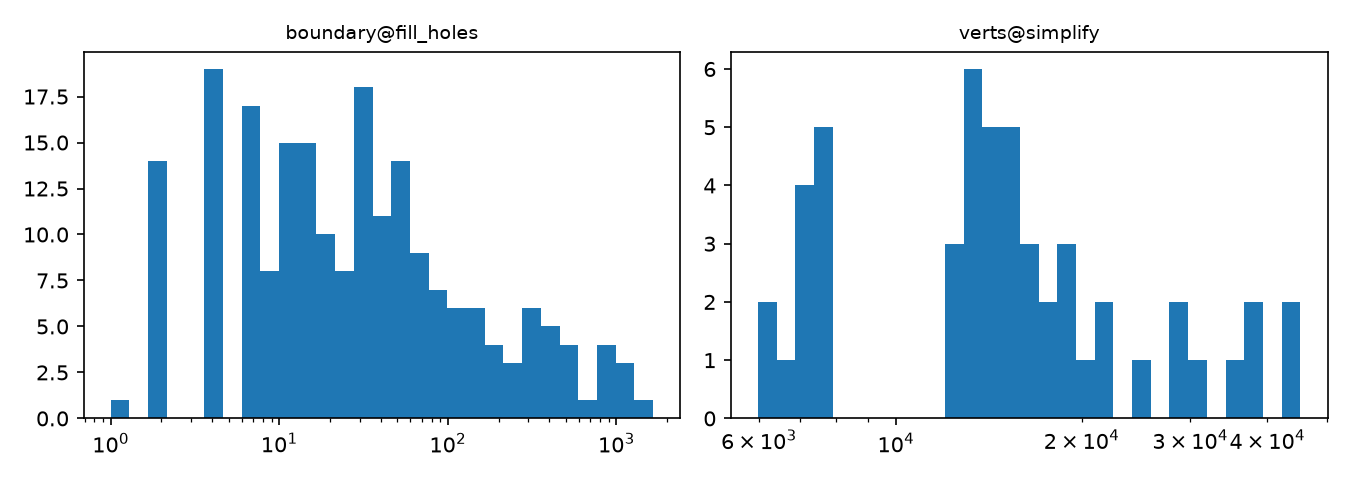
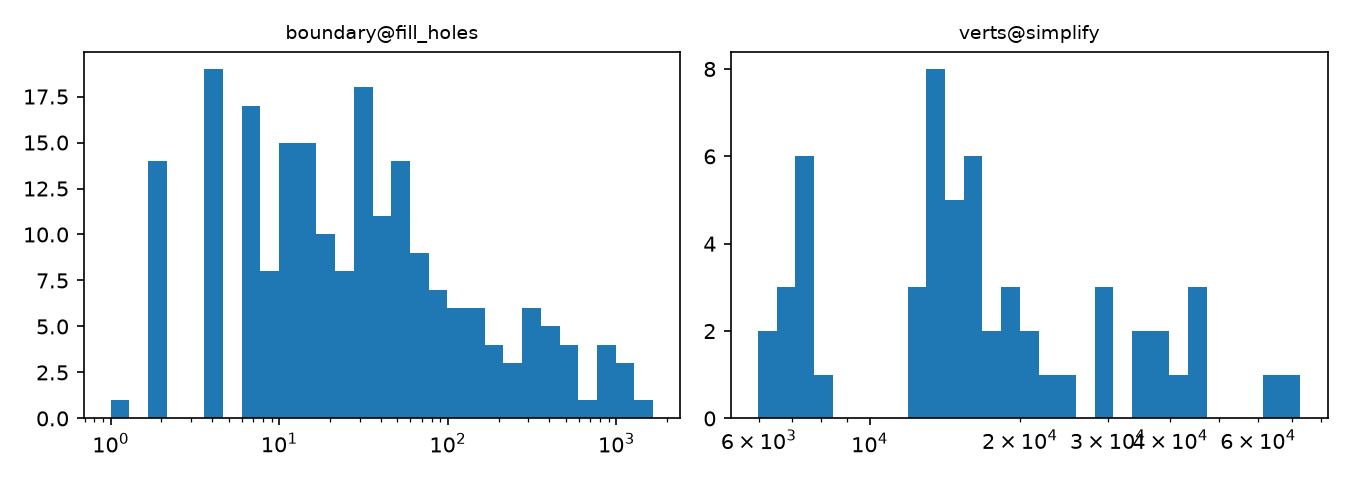
Bugfixing for the preprocessing pipeline to avoid cleanup crashes.

diff --git a/utils/_preprocessing_crash_diag.py b/utils/_preprocessing_crash_diag.py
@@ -1,0 +1,75 @@
+import numpy as np, pymeshlab
+from pathlib import Path
+
+path = r"G:\Projects\Multimedia Retrieval\ShapeDatabase\PlantIndoors\D00080.obj"
+
+def drop_overshared_faces(ms):
+    m = ms.current_mesh()
+    V, F = m.vertex_matrix(), m.face_matrix()
+    edges = np.sort(np.vstack([F[:, [0,1]], F[:, [1,2]], F[:, [2,0]]]), axis=1)
+    face_ids = np.tile(np.arange(len(F)), 3)
+    _, inv, counts = np.unique(edges, axis=0, return_inverse=True, return_counts=True)
+    bad = np.unique(face_ids[counts[inv] > 2])
+    keep = np.setdiff1d(np.arange(len(F)), bad)
+    ms.clear()
+    ms.add_mesh(pymeshlab.Mesh(vertex_matrix=V, face_matrix=F[keep]))
+    ms.meshing_remove_unreferenced_vertices()
+    return len(bad)
+
+def repair_manifold(ms):
+    try:
+        ms.meshing_repair_non_manifold_edges(method='Split Vertices')
+        return "split"
+    except pymeshlab.PyMeshLabException:
+        pass
+    try:
+        ms.meshing_repair_non_manifold_edges(method='Remove Faces')
+        return "remove_faces"
+    except pymeshlab.PyMeshLabException:
+        pass
+    n = drop_overshared_faces(ms)
+    return f"numpy_drop_{n}"
+
+def edge_stats(ms):
+    F = ms.current_mesh().face_matrix()
+    e = np.sort(np.vstack([F[:, [0,1]], F[:, [1,2]], F[:, [2,0]]]), axis=1)
+    _, c = np.unique(e, axis=0, return_counts=True)
+    return c.max(), (c > 2).sum()
+
+from pathlib import Path
+
+def repair_manifold(ms):
+    try:
+        ms.meshing_repair_non_manifold_edges(method='Split Vertices')
+        return "split"
+    except pymeshlab.PyMeshLabException:
+        pass
+    try:
+        ms.meshing_repair_non_manifold_edges(method='Remove Faces')
+        return "remove_faces"
+    except pymeshlab.PyMeshLabException:
+        pass
+    n = drop_overshared_faces(ms)
+    return f"numpy_drop_{n}"
+
+def dump(ms, name, folder="debug"):
+    Path(folder).mkdir(parents=True, exist_ok=True)
+    out = Path(folder) / name
+    ms.save_current_mesh(str(out))
+    print("saved", out)
+
+ms = pymeshlab.MeshSet()
+ms.load_new_mesh(path)
+dump(ms, "D00080_raw.obj")
+
+ms.meshing_remove_duplicate_vertices()
+ms.meshing_remove_duplicate_faces()
+ms.meshing_remove_unreferenced_vertices()
+method = repair_manifold(ms)
+print(method)
+try:
+    ms.meshing_repair_non_manifold_vertices()
+except pymeshlab.PyMeshLabException as e:
+    print("vertex repair failed:", e)
+ms.meshing_remove_unreferenced_vertices()
+dump(ms, "D00080_repaired.obj")

diff --git a/main.py b/main.py
@@ -4,8 +4,11 @@ def main():
     #filename = r"ResampledShapeDatabase/Apartment/D00478.obj"
     #filename = r"ResampledShapeDatabase/Tree/m1070.obj"
     #filename = r"ResampledShapeDatabase/Cellphone/D00327.obj"
-
-    filename = r"TestShapesResampled/half_sphere_dented.obj"
+    #filename = r"TestShapesResampled/half_sphere_dented.obj"
+    #filename = r"ResampledShapeDatabase/PlantIndoors/D00080.obj"
+    #filename = "ResampledShapeDatabase/Skyscraper/D00058.obj"
+    #filename = "ResampledShapeDatabase/Tree/D00221.obj"
+    filename = "ResampledShapeDatabase/Tree/D00223.obj"
     width, height = 900, 700
     display(filename, width, height)
 

diff --git a/Preprocessing/obj_resampler.py b/Preprocessing/obj_resampler.py
@@ -28,7 +28,10 @@ def clean_shape(shape):
     mesh.meshing_remove_duplicate_vertices()
     mesh.meshing_remove_duplicate_faces()
     mesh.meshing_remove_unreferenced_vertices()
-    mesh.meshing_repair_non_manifold_edges(method='Split Vertices')
+    try:
+        mesh.meshing_repair_non_manifold_edges(method='Split Vertices')
+    except pymeshlab.PyMeshLabException:
+        mesh.meshing_repair_non_manifold_edges(method='Remove Faces')
     mesh.meshing_repair_non_manifold_vertices()
     mesh.meshing_remove_unreferenced_vertices()
 

diff --git a/Preprocessing_Pipeline.py b/Preprocessing_Pipeline.py
@@ -251,6 +251,16 @@ def main():
         rel = f.relative_to(PROJECT_ROOT)
         prefix = f"[{i:4d}/{n}]"
 
+        to_process = (
+            Path("ShapeDatabase/PlantIndoors/D00080.obj"),
+            Path("ShapeDatabase/Skyscraper/D00058.obj"),
+            Path("ShapeDatabase/Tree/D00221.obj"),
+            Path("ShapeDatabase/Tree/D00223.obj"),
+        )
+
+        if rel not in to_process:
+            continue
+
         try:
             out, report = preprocess_one(f, verbose=verbose)
         except Exception as exc:
